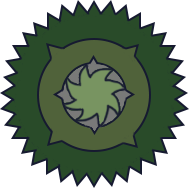
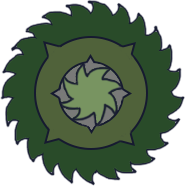
ボスの見た目変更・回転の変更
回転の変更は3つの速度変化
真ん中のみ逆回転

diff --git a/CircleRoom/Boss/BossArmored.cpp b/CircleRoom/Boss/BossArmored.cpp
@@ -79,6 +79,7 @@ BossArmored::BossArmored(const size& windowSize, float fieldSize, StageBase* sta
 	m_radius = kRadius;
 
 	auto& mgr = GameManager::GetInstance().GetFile();
+	m_charAll = mgr->LoadGraphic(L"Enemy/BossArmored.png");
 	m_char[0] = mgr->LoadGraphic(L"Enemy/BossArmoredOutside.png");
 	m_char[1] = mgr->LoadGraphic(L"Enemy/BossArmoredMiddle.png");
 	m_char[2] = mgr->LoadGraphic(L"Enemy/BossArmoredCenter.png");
